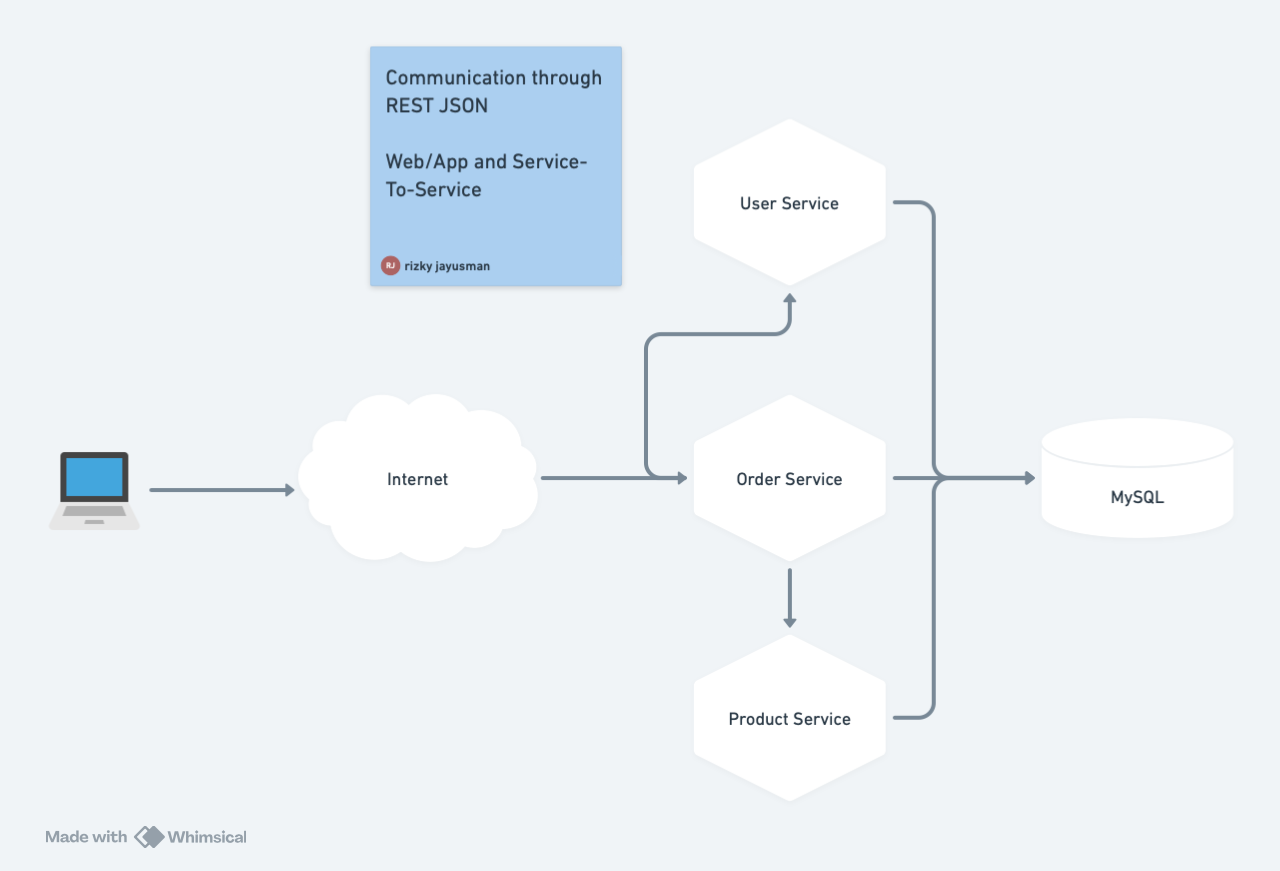
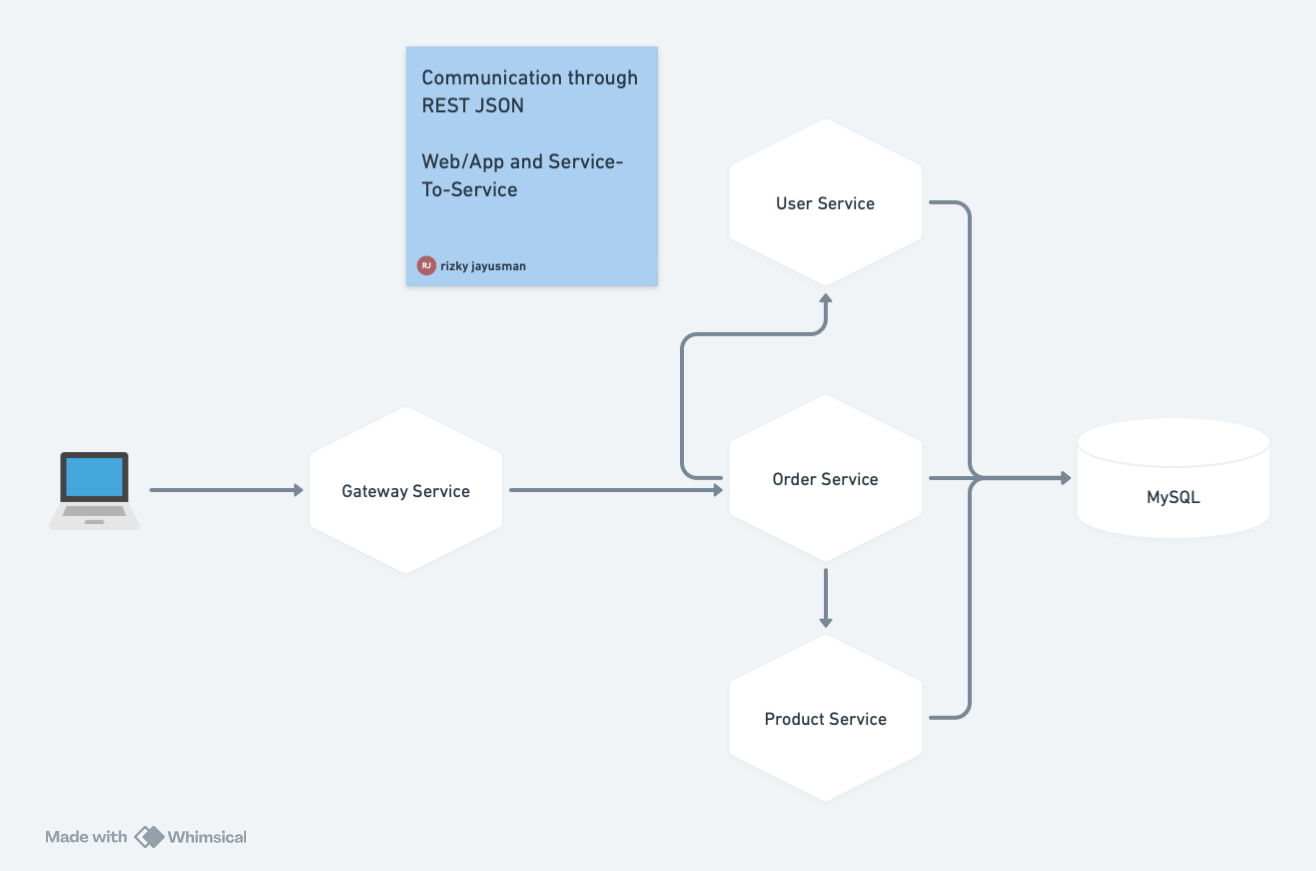
chore: update architecture and deployment diagram image file; add gateway service on docker compose

diff --git a/microservice-baseproject/README.md b/microservice-baseproject/README.md
@@ -89,9 +89,10 @@ Sistem terdiri dari **3 microservices**:
     * Postgres in container with volume persistence
     * Exposed ports for local dev:
 
-        * user: 8080
+        * gateway: 8090
+        * user: 8081
         * product: 8082
-        * order: 8081
+        * order: 8080
 * **Environment Variables** for:
 
     * DB URL, username, password
@@ -115,5 +116,4 @@ Sistem terdiri dari **3 microservices**:
 * Separate DB per service for true microservice separation
 * Async messaging (Kafka/RabbitMQ) for order events
 * Caching (Redis) for product data
-* Load balancer / API gateway
 * Rate limiting & monitoring
